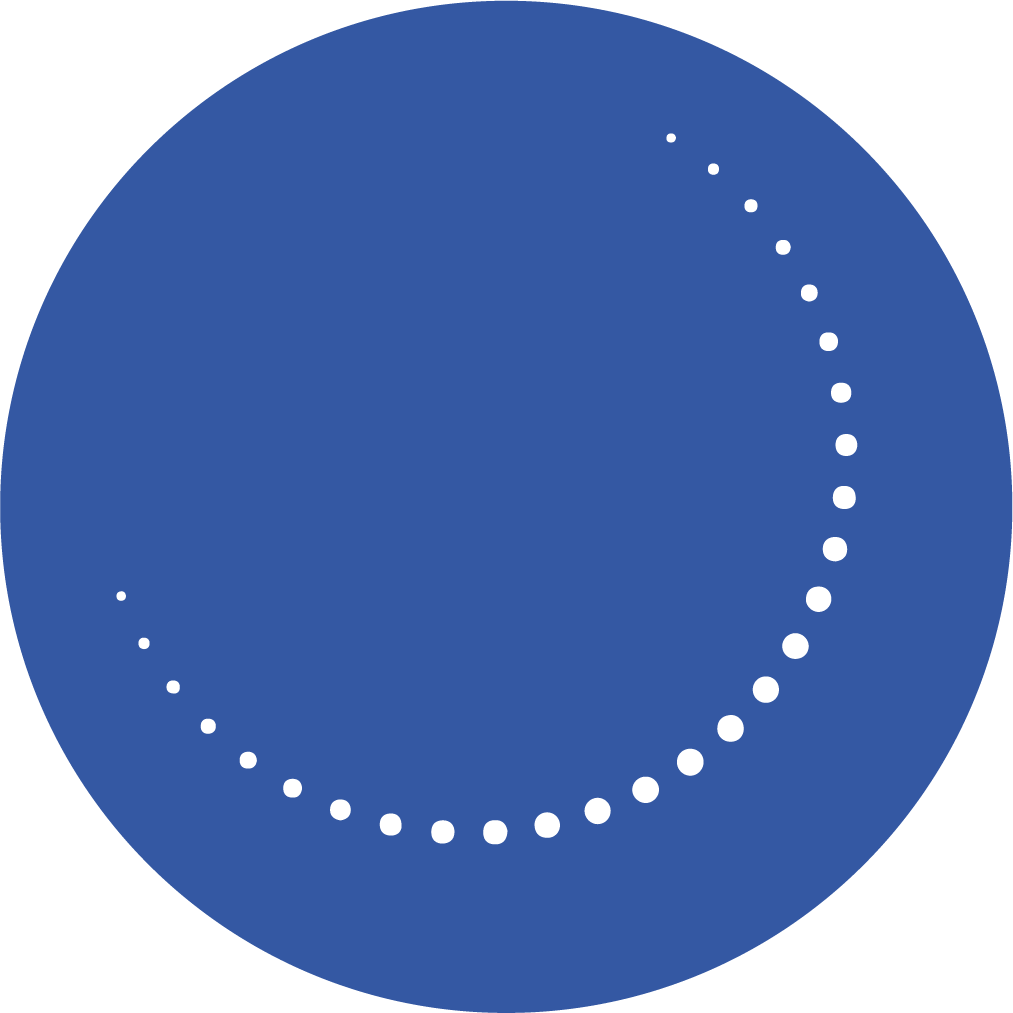
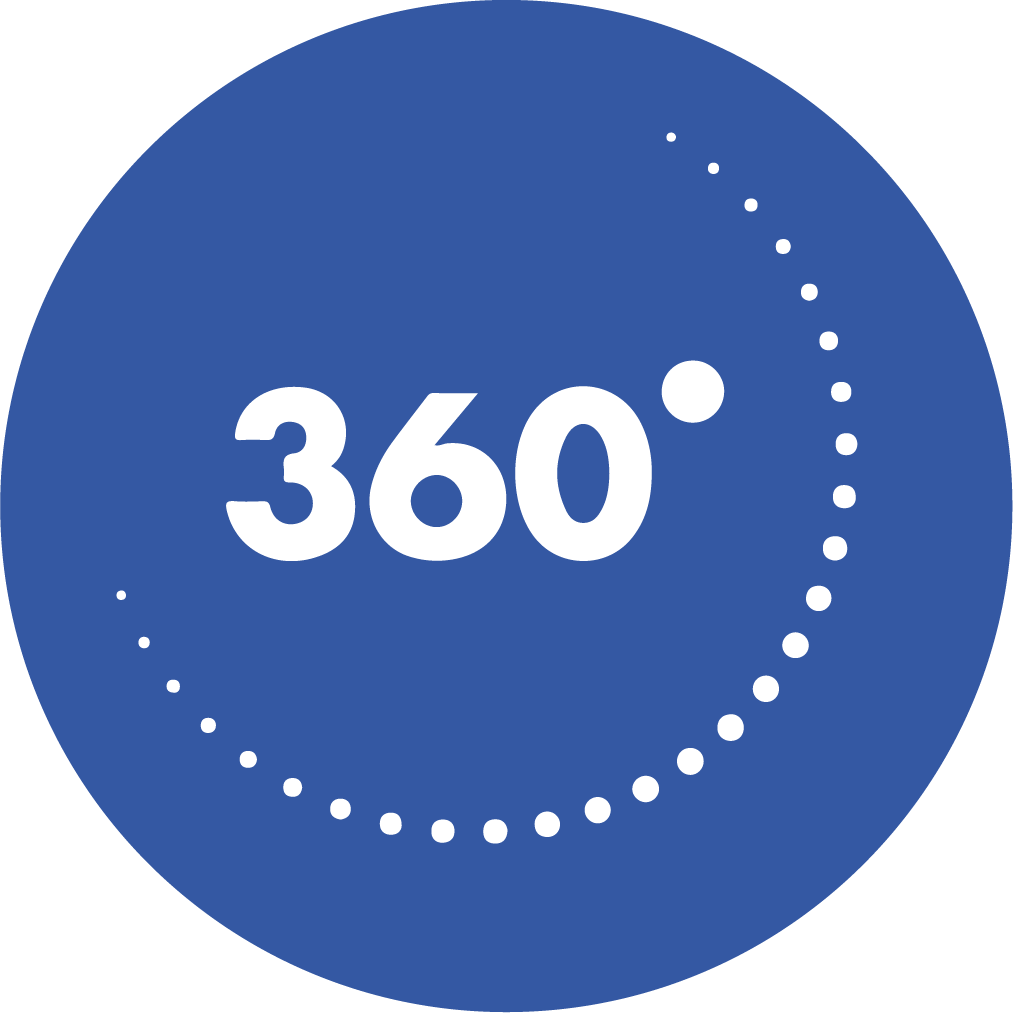
cambio circulo

Changed region(s): [[0.2142, 0.3366, 0.7345, 0.5508], [0.7038, 0.7038, 0.7345, 0.7345]]

diff --git a/css/styles.css b/css/styles.css
@@ -1310,35 +1310,7 @@
 	}
 }
 
-.numerotre {
-	position: absolute;
-	width: 6%;
-	top: 28.8%;
-	left: 45.5%;
-	z-index: 3;
-}
 
-.numerotre img {
-	width: 100%;
-	height: 100%;
-}
-
-@keyframes caerConGiro {
-	0% {
-		transform: translateY(0) rotate(20deg);
-		opacity: 1;
-	}
-	30% {
-		transform: translateY(40px) rotate(10deg);
-	}
-	60% {
-		transform: translateY(80px) rotate(25deg);
-	}
-	100% {
-		transform: translateY(120px) rotate(15deg);
-		opacity: 0.8;
-	}
-}
 
 .hoja1 {
 	position: absolute;

diff --git a/PortafolioEML.html b/PortafolioEML.html
@@ -481,9 +481,6 @@
 					<div class="halo-naranja"></div>
 					<img src="./images/circulo.png" alt="Imagen" />
 				</div>
-				<div class="numerotre">
-					<img src="./images/tresesenta.png" alt="Imagen" />
-				</div>
 
 				<div class="fondocam flotante">
 					<img src="./images/fondocam.png" alt="" />
